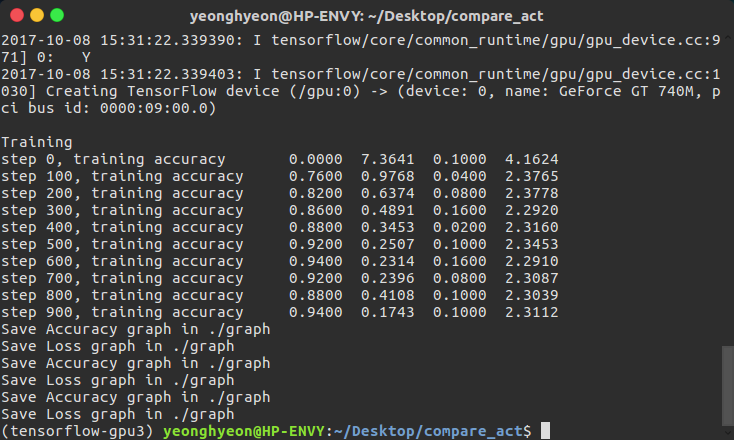
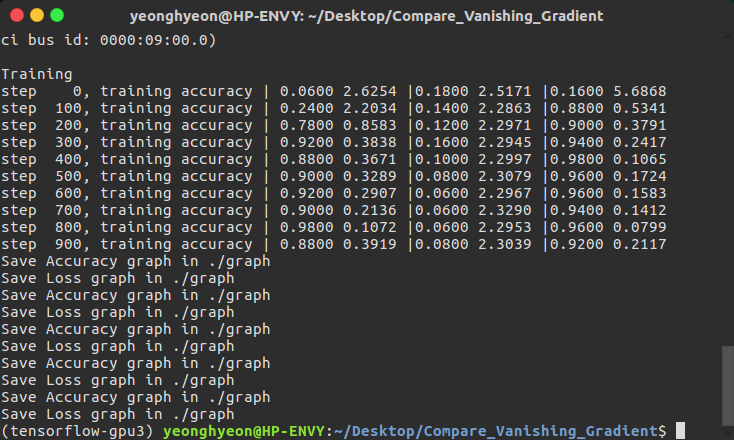
20171010

Changed region(s): [[0.0, 0.0, 0.9891, 0.7386], [0.6594, 0.9455, 0.9591, 1.0]]

diff --git a/run.py b/run.py
@@ -66,7 +66,7 @@ test_acc_list_he = []
 test_loss_list_he = []
 
 print("\nTraining")
-for i in range(10000):
+for i in range(1000):
     batch = mnist.train.next_batch(50)
     if i%100 == 0:
         test_batch = mnist.test.next_batch(50)
@@ -116,7 +116,7 @@ for i in range(10000):
         test_acc_list_he.append(test_accuracy_he)
         test_loss_list_he.append(test_loss_he)
 
-        print("step %d, training accuracy | %.4f %2.4f |%.4f %2.4f |%.4f %2.4f"%(i, train_accuracy_relu, train_loss_relu, train_accuracy_sigmoid, train_loss_sigmoid, train_accuracy_he, train_loss_he))
+        print("step %4d, training accuracy | %.4f %2.4f |%.4f %2.4f |%.4f %2.4f"%(i, train_accuracy_relu, train_loss_relu, train_accuracy_sigmoid, train_loss_sigmoid, train_accuracy_he, train_loss_he))
     train_step_relu.run(feed_dict={x: batch[0], y_: batch[1], keep_prob: 0.5})
     train_step_sigmoid.run(feed_dict={x: batch[0], y_: batch[1], keep_prob: 0.5})
     train_step_he.run(feed_dict={x: batch[0], y_: batch[1], keep_prob: 0.5})
